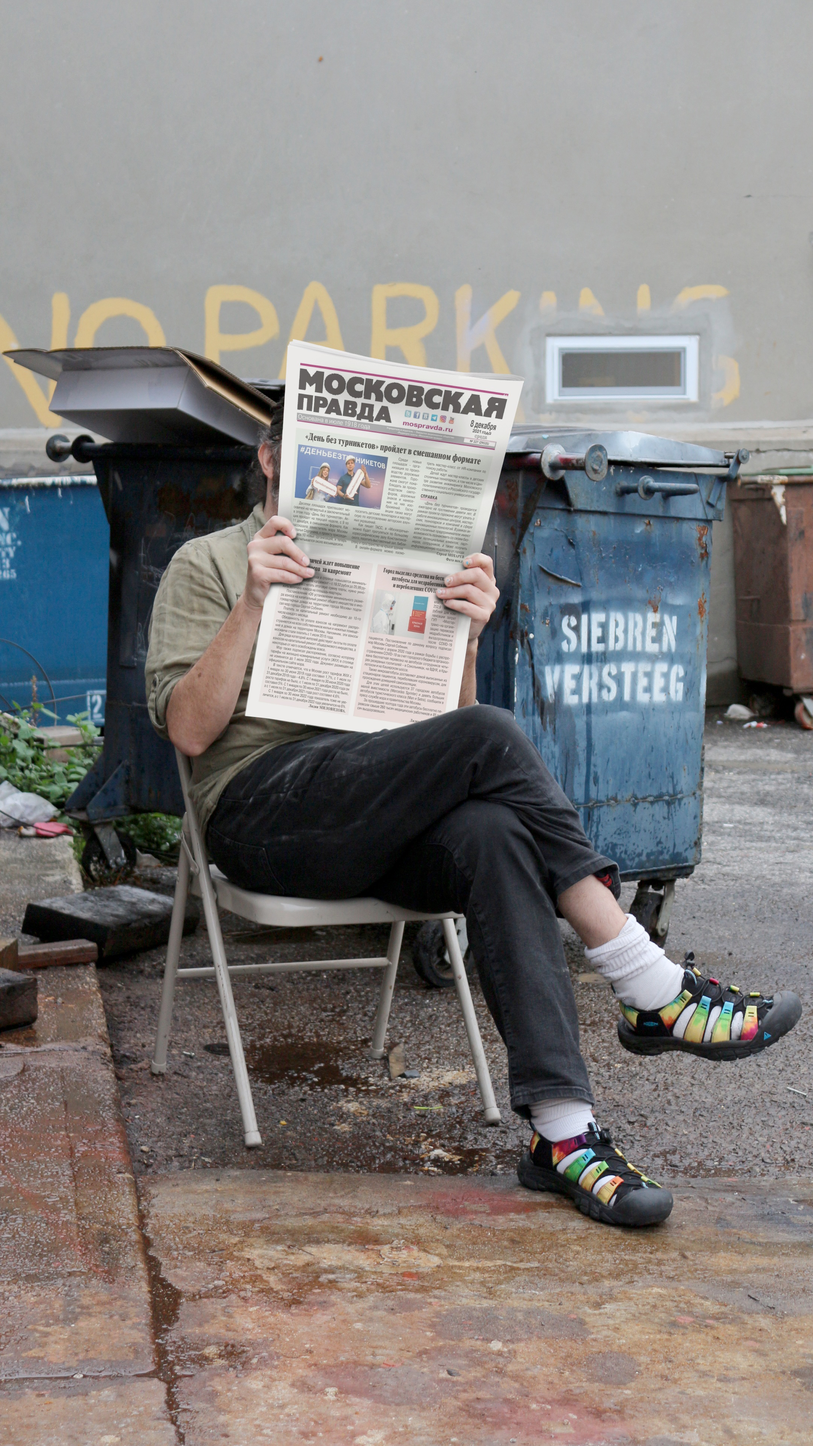
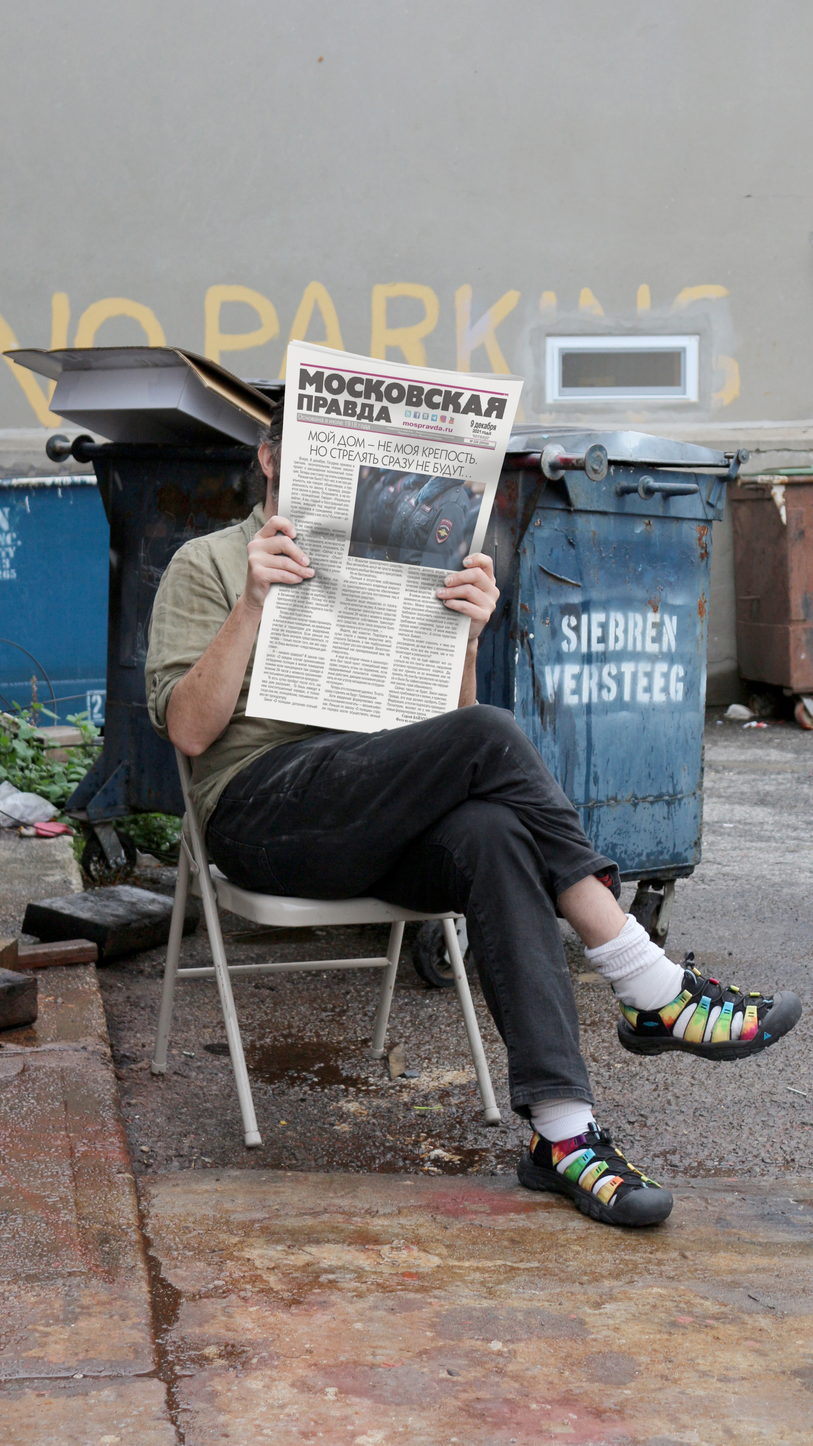
work 32 upd

Changed region(s): [[0.3102, 0.2812, 0.5894, 0.5]]

diff --git a/index.html b/index.html
@@ -155,7 +155,7 @@
 						<div class="author">Кевин Маккой</div>
 					</li>
 					<li>
-						<a href="#modal-work32" class="js-modal-link"><img src="/assets/images/works/work32.jpg?08122021" alt="Утренняя газета" title="Утренняя газета"></a>
+						<a href="#modal-work32" class="js-modal-link"><img src="/assets/images/works/work32.jpg?09122021" alt="Утренняя газета" title="Утренняя газета"></a>
 						<h3><a href="#modal-work32" class="js-modal-link">Ежедневная правда</a></h3>
 						<div class="author">Сибрен Верстиг</div>
 					</li>
@@ -1515,7 +1515,7 @@
 				<div class="title">Ежедневная правда</div>
 				<div class="authors">Сибрен Верстиг</div>
 				<div class="media">
-					<a href="/assets/images/works/work32_full.jpg?08122021" class="js-lightbox picture"><img src="/assets/images/works/work32.jpg?08122021" alt="Ежедневная правда"></a>
+					<a href="/assets/images/works/work32_full.jpg?09122021" class="js-lightbox picture"><img src="/assets/images/works/work32.jpg?09122021" alt="Ежедневная правда"></a>
 				</div>
 				<div class="credits">
 					<p><span class="line"><span class="label">сайт автора:</span><br><a href="http://www.siebrenversteeg.com/" target="_blank">siebrenversteeg.com</a></span><br><br><!-- <span class="line"><span class="label">работа размещена:</span><br><a href="https://www.artblocks.io/token/120000131" target="_blank">artblocks.io/token/120000131</a></span> --></p>

diff --git a/en/index.html b/en/index.html
@@ -155,7 +155,7 @@
 						<div class="author">Kevin McCoy</div>
 					</li>
 					<li>
-						<a href="#modal-work32" class="js-modal-link"><img src="/assets/images/works/work32.jpg?08122021" alt="Today’s Paper" title="Today’s Paper"></a>
+						<a href="#modal-work32" class="js-modal-link"><img src="/assets/images/works/work32.jpg?09122021" alt="Today’s Paper" title="Today’s Paper"></a>
 						<h3><a href="#modal-work32" class="js-modal-link">Daily Truth</a></h3>
 						<div class="author">Siebren Versteeg</div>
 					</li>
@@ -1511,7 +1511,7 @@
 				<div class="title">Daily Truth</div>
 				<div class="authors">Siebren Versteeg</div>
 				<div class="media">
-					<a href="/assets/images/works/work32_full.jpg?08122021" class="js-lightbox picture"><img src="/assets/images/works/work32.jpg?08122021" alt="Daily Truth"></a>
+					<a href="/assets/images/works/work32_full.jpg?09122021" class="js-lightbox picture"><img src="/assets/images/works/work32.jpg?09122021" alt="Daily Truth"></a>
 				</div>
 				<div class="credits">
 					<p><span class="line"><span class="label">author site:</span><br><a href="http://www.siebrenversteeg.com/" target="_blank">siebrenversteeg.com</a></span><br><br><!-- <span class="line"><span class="label">work placed:</span><br><a href="https://www.artblocks.io/token/120000131" target="_blank">artblocks.io/token/120000131</a></span> --></p>
